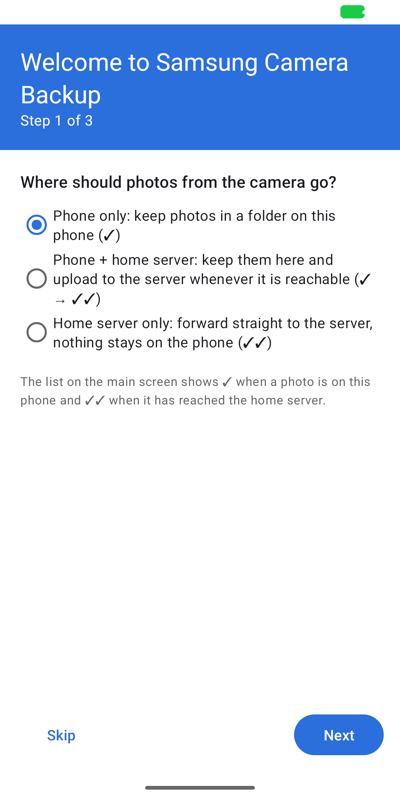
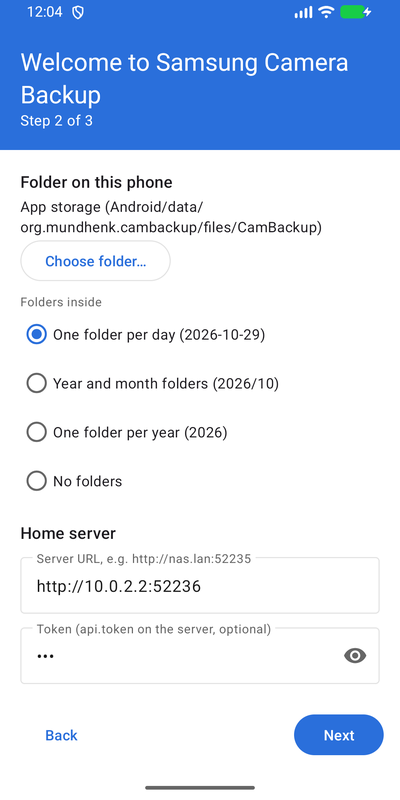
Consistency pass after 0.2.0
- the camera's argument names (NumOfContents, SystemOff) in comments, logs, config text, docs
- app button reads "Sync now" like the docs
- Api header lists every route; SERVER.md options table gains exif.tool and users
- DESIGN.md module lists cover Layout, Settings, Thumbnails, UserServers, ServerLog,
  IdentityExchange, Ui; the image contents include RawTherapee
- hook help texts mention CAMBACKUP_USER
- CHANGELOG 0.2.0: one Added section, fixes under Fixed
- coverage numbers measured for 0.2.0
- screenshots: app settings and wizard with folder layout and automatic upload, server settings
  page plus a new picture of the per-camera settings and users

diff --git a/server/src/main/kotlin/org/mundhenk/cambackup/server/Api.kt b/server/src/main/kotlin/org/mundhenk/cambackup/server/Api.kt
@@ -18,15 +18,21 @@ import java.time.Instant
 /**
  * Everything on the HTTP port that is not the camera protocol:
  *
- *   HEAD/PUT /api/v1/files/{date}/{name}   backend contract used by the Android app
+ *   HEAD/PUT /api/v1/files/{date}/{name}   backend contract used by the Android app (X-NX-User files it under a user)
  *   POST     /api/v1/events                {"type":"start"|"done","camera":"ip","sysOff":bool}
+ *   GET/POST /api/v1/identity[?user=]      the server's (or a user's) identity; POST adopts the phone's
+ *   GET      /api/v1/users                 users of a multi-user server
  *   GET      /api/v1/status                JSON for dashboards
  *   GET      /api/v1/log                   text
- *   GET      /                             status page
- *   GET      /pairing.zip | /SAMSUNGAutoBackupDESC.ini   pairing file for the SD card
+ *   GET      /health                       "ok"
+ *   GET      /                             status page; /thumb/{date}/{name} and /file/{date}/{name} (ui.previews)
+ *   GET/POST /settings                     settings page; /settings/adopt-env, /settings/users[/remove]
+ *   POST     /devices/rename               name a camera or phone
+ *   GET      /pairing.zip | /SAMSUNGAutoBackupDESC.ini [?user=]   pairing file for the SD card
  *
- * `/api/v1/files` and `/api/v1/events` require `Authorization: Bearer <api.token>` when a
- * token is configured. The UPnP paths stay open (the camera cannot authenticate).
+ * `/api/v1/files`, `/api/v1/events` and POST `/api/v1/identity` require `Authorization: Bearer
+ * <api.token>` when a token is configured; the settings pages and /devices/rename take it as HTTP
+ * Basic password. The UPnP paths stay open (the camera cannot authenticate).
  */
 class Api(
     private val config: Config,

diff --git a/server/src/main/kotlin/org/mundhenk/cambackup/server/Settings.kt b/server/src/main/kotlin/org/mundhenk/cambackup/server/Settings.kt
@@ -46,7 +46,7 @@ object SettingsCatalog {
 
         SettingDef("webhook.url", "Hooks", "Webhook URL", "Receives a JSON summary after every session (e.g. a Home Assistant webhook).", placeholder = "http://homeassistant.lan:8123/api/webhook/cambackup"),
         SettingDef("webhook.token", "Hooks", "Webhook bearer token", "Sent as Authorization: Bearer.", secret = true),
-        SettingDef("hook.command", "Hooks", "Command after every session", "Runs in the server's shell with CAMBACKUP_EVENT, CAMBACKUP_CAMERA, CAMBACKUP_SYSOFF, CAMBACKUP_STORED, CAMBACKUP_SKIPPED and CAMBACKUP_FILES (one path per line)."),
+        SettingDef("hook.command", "Hooks", "Command after every session", "Runs in the server's shell with CAMBACKUP_EVENT, CAMBACKUP_CAMERA, CAMBACKUP_USER, CAMBACKUP_SYSOFF, CAMBACKUP_STORED, CAMBACKUP_SKIPPED and CAMBACKUP_FILES (one path per line)."),
         SettingDef("sysoff.command", "Hooks", "Command when the camera asks to shut down", "The camera's \"Shut down PC after backup\" option."),
 
         SettingDef("ui.enabled", "Web UI", "Status page and pairing download", "", SettingDef.Type.BOOL, restart = true),

diff --git a/core/src/main/kotlin/org/mundhenk/cambackup/core/BackupServer.kt b/core/src/main/kotlin/org/mundhenk/cambackup/core/BackupServer.kt
@@ -122,7 +122,7 @@ class BackupServer(
         return when (action) {
             "X_BACKUP_START" -> {
                 stats.sessions.incrementAndGet(); stats.lastCamera = req.remoteAddress
-                // FileCnt is what the camera intends to send: files not yet flagged as backed up on its
+                // NumOfContents (FileCnt in older notes) is what the camera intends to send: files not yet flagged as backed up on its
                 // card. 0 means the camera will sit on its transfer screen and send nothing.
                 val announced = Regex("<(?:\\w+:)?(?:NumOfContents|FileCnt)[^>]*>\\s*(\\d+)\\s*</(?:\\w+:)?(?:NumOfContents|FileCnt)>").find(bodyText)?.groupValues?.get(1)?.toIntOrNull()
                 log("Backup session started by ${req.remoteAddress}" + when (announced) {

diff --git a/server/src/main/kotlin/org/mundhenk/cambackup/server/Config.kt b/server/src/main/kotlin/org/mundhenk/cambackup/server/Config.kt
@@ -288,10 +288,10 @@ class Config(val dataDir: File, private val props: Properties, private val env: 
             |webhook.url=
             |webhook.token=
             |
-            |# Shell command run after every session (env: CAMBACKUP_EVENT, CAMBACKUP_CAMERA, CAMBACKUP_SYSOFF,
+            |# Shell command run after every session (env: CAMBACKUP_EVENT, CAMBACKUP_CAMERA, CAMBACKUP_USER, CAMBACKUP_SYSOFF,
             |# CAMBACKUP_FILES (one path per line), CAMBACKUP_STORED, CAMBACKUP_SKIPPED).
             |hook.command=
-            |# Command run when the camera asks to shut the PC down after the backup ("SysOff").
+            |# Command run when the camera asks to shut the PC down after the backup (SystemOff=1).
             |sysoff.command=
             |""".trimMargin()
     }

diff --git a/server/src/main/kotlin/org/mundhenk/cambackup/server/Pipeline.kt b/server/src/main/kotlin/org/mundhenk/cambackup/server/Pipeline.kt
@@ -302,7 +302,7 @@ class Pipeline(
             log("hook.command exit ${r.exitCode}" + if (r.output.isNotBlank()) ": ${r.output.lines().last()}" else "")
         }
         if (sysOff) config.sysOffCommand?.let { cmd ->
-            log("Camera requested shutdown (SysOff) -> running sysoff.command")
+            log("Camera requested shutdown (SystemOff) -> running sysoff.command")
             val r = tools.shell(cmd, env)
             log("sysoff.command exit ${r.exitCode}")
         }

diff --git a/docs/DESIGN.md b/docs/DESIGN.md
@@ -92,10 +92,11 @@ core/  (Kotlin, JVM, zero dependencies — runs on Android and on servers/CI)
   SsdpResponder    multicast listener, M-SEARCH replies, periodic NOTIFY alive/byebye
   BackupServer     routing + SOAP action handling; stats; pending-object table
   BackupSink       interface: onBackupStart / exists / store / onBackupDone
-  FileSystemSink   <root>/<date>/<name>, dedup by name+size, .part + rename
+  FileSystemSink   <root>/<layout folder>/<name>, dedup by name+size, .part + rename, short uploads rejected
+  Layout           folder layouts from the camera date: flat | day | month | year | {yyyy}{MM}{dd} pattern
   CameraSimulator  acts like the camera (used by JVM e2e, Espresso e2e, manual tests)
   Main             CLI: serve <dir> | pairing <name> | e2e [--ssdp]
-server/ (Kotlin/JVM, depends only on core; Docker image eclipse-temurin 17 + exiftool + libraw)
+server/ (Kotlin/JVM, depends only on core; Docker image eclipse-temurin 17 + exiftool + RawTherapee + libraw)
   Config           <data>/cambackup.conf (properties, commented defaults written on first start)
                    + env overrides CAMBACKUP_<KEY>
   Main             CamBackupServer.start(dataDir): wires everything; identity lives in
@@ -117,6 +118,12 @@ server/ (Kotlin/JVM, depends only on core; Docker image eclipse-temurin 17 + exi
   Devices          who talked to the server: cameras by address, phones by X-NX-Device nickname
                    (devices.tsv), listed on the status page
   Tools            runs external programs, probes availability once (shown on status page)
+  Settings         SettingsCatalog (every key, sections, per-camera keys, form parsing), SettingsPage,
+                   Html (shared page chrome and tokens for status and settings page)
+  Thumbnails       status-page previews, rendered once into <data>/thumbs (RAW via the rendered JPEG)
+  UserServers      multi-user: one camera-facing BackupServer per user (own identity, port, folder,
+                   ledger, spool); Config.forCameraAndUser layers camera.<id>.* over user.<name>.*
+  ServerLog        in-memory log ring buffer behind /api/v1/log and the status page
 app/   (Android, minSdk 26, Views + Material 3, ViewBinding; tokens from docs/BRANDING.md)
   MainActivity     status card (running dot, destination, Start/Stop, Sync), transfer list
                    (RecyclerView, ✓ / ✓✓), toolbar -> Log, Settings; opens the wizard on first start
@@ -137,6 +144,8 @@ app/   (Android, minSdk 26, Views + Material 3, ViewBinding; tokens from docs/BR
   Hotspot          opens the system's hotspot settings (apps cannot switch the hotspot on)
   Prefs            SharedPreferences; Mode PHONE | PHONE_AND_SERVER | SERVER; UDN generated once
   LogBus           in-process log ring buffer feeding the UI
+  IdentityExchange take the server's (or a server user's) identity, or hand the phone's to the server
+  Ui               shared view helpers: edge-to-edge, https warning, folder-layout radios, open a file
 ```
 
 ### Design decisions
@@ -269,7 +278,7 @@ rest in the next run because uploaded files are flagged `IsBackup` on the card.
 Run the first session with the app log (or the server status page) visible; every camera
 request is logged. Checked against the NX1100 manual (p. 117 f.): the camera stores the PC
 information itself (our pairing file), backs up only new files, can shut the PC down afterwards
-(`SysOff`), turns itself off ~30 s after the transfer, and needs the PC firewall open — i.e.
+(`SystemOff`), turns itself off ~30 s after the transfer, and needs the PC firewall open — i.e.
 52235/tcp and 1900/udp.
 
 ## 8. Build / test / CI

diff --git a/CHANGELOG.md b/CHANGELOG.md
@@ -49,16 +49,6 @@ All notable changes to this project are documented here. The format follows
   with the app closed) until everything is on the server; *Upload automatically* in Settings
   switches it off. Tapping a file in the list opens it in the phone's viewer; JPEGs show a
   preview.
-- Fixed: an upload the camera stopped mid-file (cancelled on the camera) was recorded on the
-  phone as complete and then failed to sync ("short upload"). Both phone sinks and the core
-  file sink now reject short uploads; the uploader drops an incomplete file it finds (the
-  camera sends it again).
-- Fixed: the second Auto Backup session stalled on both targets. After X_BACKUP_START the
-  NX1000 browses the last object of its previous session; the server answered with an empty
-  result and the camera waited forever. Browse now serves a small content tree (root with an
-  "Auto Backup" folder, the parentIDs handed out in CreateObject, objects still waiting for
-  their upload) and UPnP error 701 for anything else, which lets the camera continue. The
-  session start recognises the camera's `NumOfContents`. (#23)
 - Every protocol request is logged (service descriptions, SUBSCRIBE, Browse and the other
   ContentDirectory/ConnectionManager actions, connections closed without a request), so a
   camera that stops after the session start shows what it did next.
@@ -69,8 +59,6 @@ All notable changes to this project are documented here. The format follows
 - Android: generating a new UDN asks for confirmation and explains that cameras paired with
   the old one stop syncing; replaced UDNs are kept in a history in Settings and can be
   switched back to.
-
-### Added
 - Device management (#22): the app shows whether it shares the server's identity and can take
   the server's UDN or hand its own to the server (`GET`/`POST /api/v1/identity`; the server
   rewrites its pairing file and switches its camera side over live, without a restart). The UDN history records where
@@ -95,6 +83,16 @@ All notable changes to this project are documented here. The format follows
   export target. Move `data/incoming/*` into `photos/` when upgrading.
 
 ### Fixed
+- An upload the camera stopped mid-file (cancelled on the camera) was recorded on the
+  phone as complete and then failed to sync ("short upload"). Both phone sinks and the core
+  file sink now reject short uploads; the uploader drops an incomplete file it finds (the
+  camera sends it again).
+- The second Auto Backup session stalled on both targets. After X_BACKUP_START the
+  NX1000 browses the last object of its previous session; the server answered with an empty
+  result and the camera waited forever. Browse now serves a small content tree (root with an
+  "Auto Backup" folder, the parentIDs handed out in CreateObject, objects still waiting for
+  their upload) and UPnP error 701 for anything else, which lets the camera continue. The
+  session start recognises the camera's `NumOfContents`. (#23)
 - Truncated chunked uploads were accepted as complete.
 - Title overlapped the status bar on Android 15. (#2)
 

diff --git a/docs/screenshots.md b/docs/screenshots.md
@@ -21,8 +21,8 @@ Three steps on first start: where photos go, folder or server, pairing file.
 
 ## App: settings
 
-Everything from the wizard, plus the identity the camera is paired with. Locked while the
-server runs.
+Everything from the wizard (folder, folder layout, server, automatic upload), plus the
+identity the camera is paired with. Locked while the server runs.
 
 ![Settings](screenshots/app-settings.png)
 
@@ -40,3 +40,9 @@ Every option of `cambackup.conf` with an explanation. Values from the compose fi
 `environment` badge and are read-only; "restart" marks what needs a restart.
 
 ![Settings page](screenshots/web-settings.png)
+
+Further down: per-camera settings for every camera the server has seen (empty fields inherit
+the general value; here the NX1000 gets its own folder layout and rename pattern) and the
+users of a shared server, each with their own pairing file.
+
+![Per-camera settings and users](screenshots/web-settings-cameras-users.png)

diff --git a/docs/SERVER.md b/docs/SERVER.md
@@ -87,7 +87,9 @@ a short explanation, grouped into Camera, Storage, Pipeline, Hooks and Web UI. R
 | `webhook.url`, `webhook.token` | off | POST a JSON session summary (e.g. Home Assistant) |
 | `hook.command` | off | shell command after every session (`CAMBACKUP_FILES`, `CAMBACKUP_STORED`, …) |
 | `sysoff.command` | off | runs when the camera asks to shut the PC down |
+| `exif.tool` | `exiftool` | name or path of the exiftool binary |
 | `tools.path` | empty | extra directories searched for exiftool / converters before `PATH` |
+| `users` | empty | several users on one server, e.g. `alice,bob`; see [Several users on one server](#several-users-on-one-server) |
 
 The pipeline runs per file on a worker thread, in order: EXIF time shift → RAW preview →
 rename → export. A stage whose tool is missing is skipped with a log line; the status page

diff --git a/docs/DEVELOPMENT.md b/docs/DEVELOPMENT.md
@@ -35,7 +35,7 @@ Every module has a **95 % line-coverage gate** (JaCoCo); `check` fails below it.
   EXIF-based rename, export into a second volume, token auth and dedup switched on.
 * `tools/e2e-jvm.sh [--ssdp]` — loopback e2e without Gradle; `--ssdp` also exercises multicast.
 
-Measured on 2026-10-27: core 96.9 %, server 98.3 %, app 97.4 % lines.
+Measured on 2026-11-01 (0.2.0): core 95.8 %, server 98.7 %, app 96.4 % lines.
 
 ## CI and releases
 
